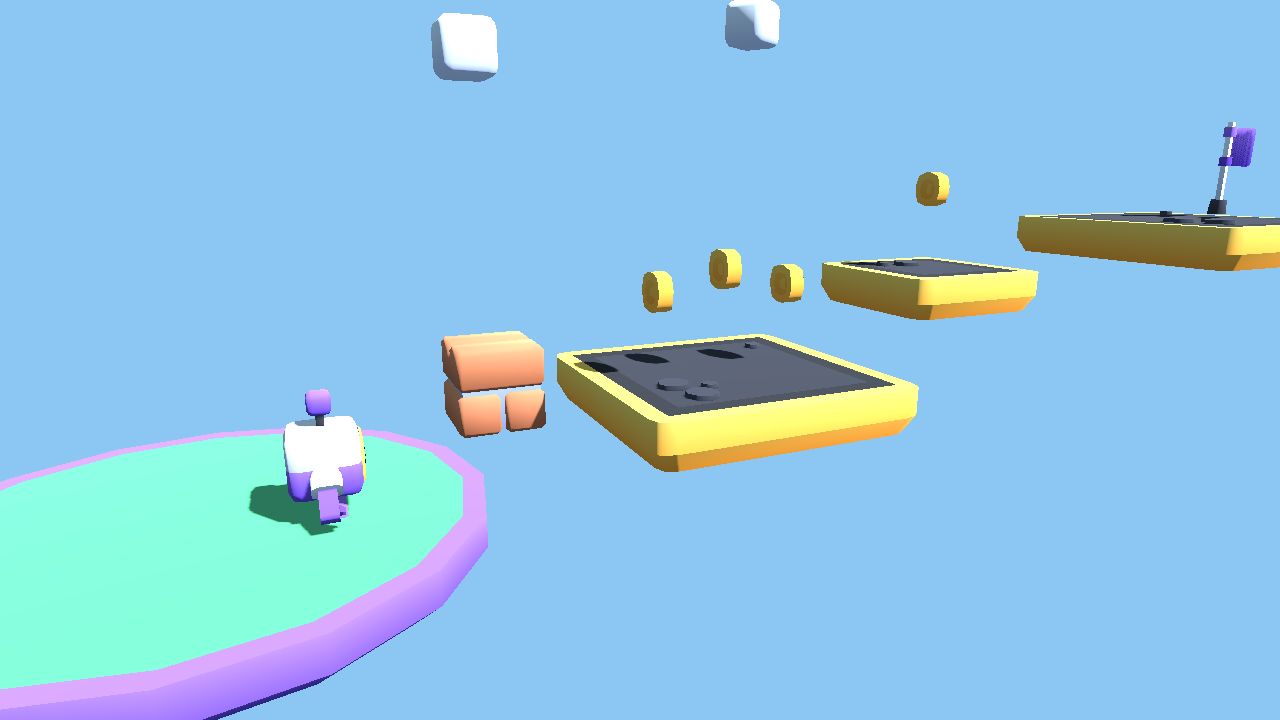
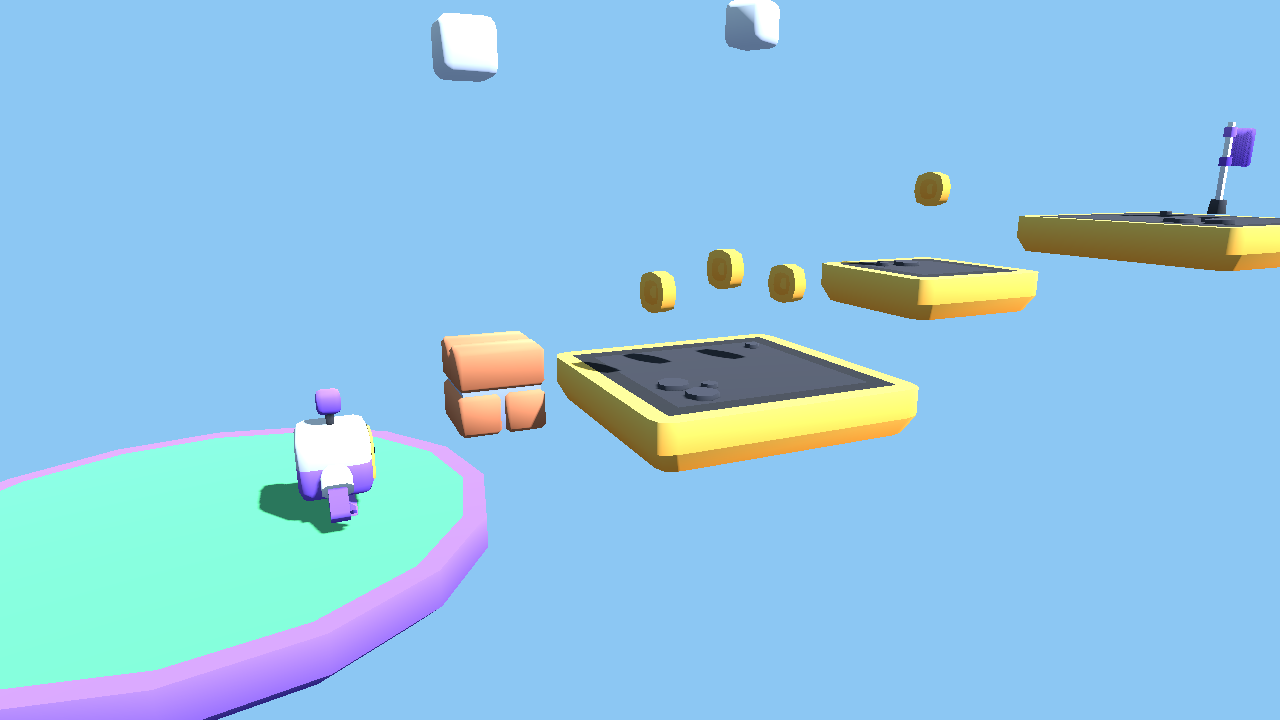
Fix review findings from #10 and reconcile art spend (#11)
* Fix three review findings: weapon aim, capture click, size gate

A weapon saved inside a controller scene had no aim on its first shot, the click that captures the mouse also fired, and web_size ignored textures stored beside a model. Each fix has a test that fails without it.

* Reconcile spend ledger with the real Cloud Billing charge

Billing showed $0.73 for the 21 images estimated at $0.42, so the ledger gets a correction row and the per-image price estimate rises to $0.035.

---------

diff --git a/godot/art_tests/gates/test_gate3d.py b/godot/art_tests/gates/test_gate3d.py
@@ -34,6 +34,11 @@ def verdict(report: dict, name: str) -> bool | None:
     return next(c["passed"] for c in report["checks"] if c["name"] == name)
 
 
+def verdict_value(report: dict, name: str):
+    """The measured value of one named gate in a report."""
+    return next(c["value"] for c in report["checks"] if c["name"] == name)
+
+
 def build_fixtures(blender: str, out: pathlib.Path) -> pathlib.Path:
     """Runs pipeline3d's stage test to make the models; returns the folder holding the .glb files."""
     run = subprocess.run([blender, "-b", "--factory-startup", "--python-exit-code", "1",
@@ -51,6 +56,34 @@ def build_open_plane(blender: str, path: pathlib.Path) -> None:
               f"bpy.ops.export_scene.gltf(filepath=r'{path}', export_format='GLB')\n")
     run = subprocess.run([blender, "-b", "--factory-startup", "--python-expr", script], capture_output=True, text=True, timeout=300)
     check(path.is_file(), "could not build the open-plane model:\n" + run.stdout[-400:])
+
+
+def build_external_texture_model(blender: str, folder: pathlib.Path) -> pathlib.Path:
+    """A cube whose 1024 px noise texture is a SEPARATE file next to the model (.gltf + .bin + .png).
+
+    Kits like Kenney's work this way: the model points at a shared texture beside it. The
+    noise makes the texture large and hard to compress, so it dominates the asset's size.
+    """
+    model = folder / "textured_cube.gltf"
+    script = ("import bpy, random\n"
+              "[bpy.data.objects.remove(o) for o in list(bpy.data.objects)]\n"
+              "bpy.ops.mesh.primitive_cube_add(size=1)\n"
+              "image = bpy.data.images.new('noise', 1024, 1024)\n"
+              "image.pixels.foreach_set([random.random() for _ in range(1024 * 1024 * 4)])\n"
+              f"image.filepath_raw = r'{folder / 'noise.png'}'\n"
+              "image.file_format = 'PNG'\n"
+              "image.save()\n"
+              "material = bpy.data.materials.new('noise')\n"
+              "material.use_nodes = True\n"
+              "node = material.node_tree.nodes.new('ShaderNodeTexImage')\n"
+              "node.image = image\n"
+              "material.node_tree.links.new(node.outputs['Color'], material.node_tree.nodes['Principled BSDF'].inputs['Base Color'])\n"
+              "bpy.context.object.data.materials.append(material)\n"
+              f"bpy.ops.export_scene.gltf(filepath=r'{model}', export_format='GLTF_SEPARATE')\n")
+    run = subprocess.run([blender, "-b", "--factory-startup", "--python-expr", script],
+                         capture_output=True, text=True, timeout=600)
+    check(model.is_file(), "could not build the external-texture model:\n" + run.stdout[-400:])
+    return model
 
 
 def test_facts(models: pathlib.Path) -> None:
@@ -106,6 +139,20 @@ def test_blender_gates(models: pathlib.Path, tmp: pathlib.Path) -> None:
     check(verdict(as_scenery, "non_manifold") is None, "open edges are only reported for environment pieces")
 
 
+def test_external_texture_counts_toward_web_size(tmp: pathlib.Path) -> None:
+    """A texture stored next to the model (not inside it) must count toward web_size."""
+    folder = tmp / "external"
+    folder.mkdir()
+    model = build_external_texture_model(os.environ["BLENDER"], folder)
+    roomy = gate3d.run_gate(model, kind="environment", blender="off")
+    size_kb = verdict_value(roomy, "web_size")
+    check(verdict(roomy, "godot_import") is True, f"the separate texture should import cleanly: {roomy['checks']}")
+    # The cube alone is a few KB; a 1024 px noise texture is hundreds. 100 KB sits between.
+    check(size_kb > 100, f"web_size {size_kb} KB left out the external texture")
+    tight = gate3d.run_gate(model, kind="environment", blender="off", budget_kb=100.0)
+    check(tight["failed"] == ["web_size"], f"a 100 KB budget should fail on the texture: {tight['failed']}")
+
+
 def test_godot_gates(models: pathlib.Path) -> None:
     """Godot layer: clean import, loop flags checked against what was asked, size budget enforced."""
     wolf = models / "wolf_merged.glb"
@@ -134,6 +181,7 @@ if __name__ == "__main__":
         test_blender_gates(models, tmp)
         if gate3d.find_tool(None, "GODOT"):
             test_godot_gates(models)
+            test_external_texture_counts_toward_web_size(tmp)
         else:
             print("  Godot gates skipped (set GODOT to run them)")
     print("PASS")

diff --git a/godot/art_tests/gates/gate3d.py b/godot/art_tests/gates/gate3d.py
@@ -195,12 +195,14 @@ def godot_gates(glb: pathlib.Path, godot: str | None, loops: list[str], budget_k
         # file the model points to, keeping its relative path; a missing one is the model's
         # problem and will show up below as an import error, which is exactly what we want.
         document = glb_facts.read_gltf_json(glb)
+        side_names = []                                # file names of the copied dependencies
         for item in document.get("images", []) + document.get("buffers", []):
             uri = item.get("uri", "")
             side_file = glb.parent / uri
             if uri and not uri.startswith("data:") and side_file.is_file():
                 (assets / uri).parent.mkdir(parents=True, exist_ok=True)
                 shutil.copy(side_file, assets / uri)
+                side_names.append(pathlib.Path(uri).name)
         audit_path = pathlib.Path(folder) / "audit.json"
         try:
             imported = subprocess.run([godot, "--headless", "--path", str(project), "--import"],
@@ -218,7 +220,12 @@ def godot_gates(glb: pathlib.Path, godot: str | None, loops: list[str], budget_k
         entry = next((a for a in audit["assets"] if a["path"].endswith(glb.name)), None)
         # Everything Godot generated for this model: the scene plus any textures it extracted.
         cache = project / ".godot" / "imported"
-        payload = sum(f.stat().st_size for f in cache.glob(f"{glb.stem}*") if f.suffix != ".md5") if cache.is_dir() else 0
+        # Godot names cache files "<source file name>-<hash>.<ext>", so an external texture
+        # ("colormap.png-1a2b.ctex") is found by ITS name, not the model's: count both, or a
+        # model with a huge external texture would pass the size gate.
+        patterns = [f"{glb.stem}*"] + [f"{name}-*" for name in side_names]
+        cached = {f for pattern in patterns for f in cache.glob(pattern)} if cache.is_dir() else set()
+        payload = sum(f.stat().st_size for f in cached if f.suffix != ".md5")
     if entry is None:
         return [check(name, False, "not audited", None, "the model did not appear in the audit") for name in names]
     problems = errors + entry["errors"]

diff --git a/godot/art_tests/cells/cell_lib.py b/godot/art_tests/cells/cell_lib.py
@@ -28,9 +28,11 @@ import gate2d  # noqa: E402
 import gate3d  # noqa: E402
 from runlog import RunLog  # noqa: E402,F401  (re-exported so build.py needs one import)
 
-# Estimated dollars per 1K image. Google bills by output tokens, so these are estimates;
-# the real charge is in Cloud Billing. Kept high on purpose so the $5 cap errs safe.
-PRICE_USD = {"nano-banana-2-lite": 0.02, "nano-banana": 0.04, "nano-banana-2": 0.07, "nano-banana-pro": 0.14}
+# Estimated dollars per 1K image. Google bills by output tokens, so these are estimates.
+# Calibrated on 2026-11-12: Cloud Billing charged $0.73 for the 21 lite images that had been
+# estimated at $0.02 each, i.e. about $0.035 per image. The other models were scaled by the
+# same factor (x1.75); they have not been checked against a bill yet.
+PRICE_USD = {"nano-banana-2-lite": 0.035, "nano-banana": 0.07, "nano-banana-2": 0.12, "nano-banana-pro": 0.25}
 # Seconds a person needs to look at one image and say yes or no. An estimate, used for
 # every approval so cells compare fairly; your own number may differ.
 GLANCE_SECONDS = 20.0

diff --git a/godot/docs/ART_WORKFLOWS.md b/godot/docs/ART_WORKFLOWS.md
@@ -7,7 +7,7 @@ from each cell's `report.json`. Re-run a cell with `python art_tests/cells/<cell
 ## The short answer
 
 **Never generate animation frame by frame.** Every cell below got a usable hero in under
-11 minutes, most in under 4, for 12 cents or less, by asking for the *whole* character in one
+11 minutes, most in under 4, for about 20 cents or less, by asking for the *whole* character in one
 request (a sheet, a parts sheet or a portrait) or by downloading one that is already rigged.
 Medusa's Price spent about two days on frame-by-frame sheets; the same six genres in both 2D
 and 3D took 52 minutes of clock time here, scene code included (written by the AI agent).
@@ -30,7 +30,7 @@ one, put the AI somewhere a judge can see it (generated textures, portraits, dia
 | Measured | Not measured |
 |---|---|
 | Machine time per step (generation, cleanup, Blender, Godot import, gates) | **Your** time. "Human" figures are estimates: 20 s per look, plus a stated guess per manual step |
-| Paid cost per image (estimated at $0.02; real charge is in Cloud Billing) | Time to write each demo scene by hand (the agent wrote them) |
+| Paid cost per image: estimated at $0.02 per run; Cloud Billing later showed $0.73 for all 21 images (about $0.035 each), so per-cell costs below are about 1.75x low | Time to write each demo scene by hand (the agent wrote them) |
 | Re-rolls and why each happened | A full jam's worth of assets: each cell is ONE hero and ONE environment piece |
 | Gate results on the final files | Tripo, Meshy, SpriteCook, Mixamo, AccuRIG: no keys or manual steps were used |
 | | Web build size and frame rate with the cell art included |
@@ -44,7 +44,7 @@ one, put the AI somewhere a judge can see it (generated textures, portraits, dia
 | Rank | Pipeline | Total | Cost | Looks | Re-rolls | Verdict |
 |---|---|---|---|---|---|---|
 | 1 | 2D: one 4-pose billboard sheet + one wall texture | 1:52 | $0.06 | 2 | 1 | Use. Re-roll was an *edit* of take 1 (kept poses, brightened colours) |
-| 2 | 3D: Kenney kit level + pipeline3d boar + fog | 6:23 | $0.00 | 2 | 0 | Works, but the kit's pastel palette fights a horror mood |
+| 2 | 3D: Kenney kit level + pipeline3d boar + fog | 6:24 | $0.00 | 2 | 0 | Works, but the kit's pastel palette fights a horror mood |
 | - | 3D: AI mesh (Tripo/Meshy) + auto-rig | not run | | | | No keys |
 
 ### Action RPG
@@ -61,7 +61,7 @@ one, put the AI somewhere a judge can see it (generated textures, portraits, dia
 | Rank | Pipeline | Total | Cost | Looks | Re-rolls | Verdict |
 |---|---|---|---|---|---|---|
 | 1 | 2D: portrait, token cropped from it by code, one floor image | 1:34 | $0.08 | 2 | 1 | Use. Re-roll removed a franchise-like crest |
-| 2 | 3D: static kit models as minis + floor texture | 5:43 | $0.00 | 1 | 0 | Use when you want a 3D board |
+| 2 | 3D: static kit models as minis + floor texture | 5:44 | $0.00 | 1 | 0 | Use when you want a 3D board |
 
 ### Fighter
 
@@ -84,7 +84,7 @@ one, put the AI somewhere a judge can see it (generated textures, portraits, dia
 | Rank | Pipeline | Total | Cost | Looks | Re-rolls | Verdict |
 |---|---|---|---|---|---|---|
 | 1 | 2D: four flat parts from one sheet, run cycle from a sine wave | 3:01 | $0.04 | 2 | 0 | Use. No frames drawn, first take worked |
-| 2 | 3D: Kenney platformer kit (hero with clips + platforms) | 5:57 | $0.00 | 1 | 0 | Use. Zero risk, but it looks like every other Kenney jam game |
+| 2 | 3D: Kenney platformer kit (hero with clips + platforms) | 5:59 | $0.00 | 1 | 0 | Use. Zero risk, but it looks like every other Kenney jam game |
 
 ## The rules these runs produced
 

diff --git a/godot/art_tests/SCOREBOARD.md b/godot/art_tests/SCOREBOARD.md
@@ -19,15 +19,15 @@ Click a cell name to see its screenshot.
 | [fighter_2d](cells/fighter_2d/screenshot.png) | generated | 2 | $0.04 | 0:21 | 5:40 | **6:01** | 2 | 0 | 27 pass, 15 n/a |
 | [metroidvania_2d](cells/metroidvania_2d/screenshot.png) | generated | 3 | $0.06 | 0:26 | 2:40 | **3:06** | 2 | 0 | 13 pass, 2 n/a |
 | [platformer_2d](cells/platformer_2d/screenshot.png) | generated | 2 | $0.04 | 0:21 | 2:40 | **3:01** | 2 | 0 | 19 pass, 11 n/a |
-| [fps_3d](cells/fps_3d/screenshot.png) | downloaded + built | - | $0.00 | 0:43 | 5:40 | **6:23** | 2 | 0 | 20 pass, 19 n/a |
+| [fps_3d](cells/fps_3d/screenshot.png) | downloaded + built | - | $0.00 | 0:44 | 5:40 | **6:24** | 2 | 0 | 20 pass, 19 n/a |
 | [action_rpg_3d](cells/action_rpg_3d/screenshot.png) | downloaded | - | $0.00 | 0:34 | 10:20 | **10:54** | 1 | 0 | 21 pass, 18 n/a |
-| [tactics_3d](cells/tactics_3d/screenshot.png) | downloaded | - | $0.00 | 0:23 | 5:20 | **5:43** | 1 | 0 | 14 pass, 18 n/a |
+| [tactics_3d](cells/tactics_3d/screenshot.png) | downloaded | - | $0.00 | 0:24 | 5:20 | **5:44** | 1 | 0 | 14 pass, 18 n/a |
 | [fighter_3d](cells/fighter_3d/screenshot.png) | downloaded | - | $0.00 | 0:17 | 0:20 | **0:37** | 1 | 0 | 16 pass, 3 n/a |
 | [metroidvania_3d](cells/metroidvania_3d/screenshot.png) | downloaded | - | $0.00 | 0:15 | 7:20 | **7:35** | 1 | 0 | 14 pass, 5 n/a |
-| [platformer_3d](cells/platformer_3d/screenshot.png) | downloaded | - | $0.00 | 0:37 | 5:20 | **5:57** | 1 | 0 | 19 pass, 33 n/a |
+| [platformer_3d](cells/platformer_3d/screenshot.png) | downloaded | - | $0.00 | 0:39 | 5:20 | **5:59** | 1 | 0 | 19 pass, 33 n/a |
 
-**All 12 cells:** machine 6:14, human (est.) 48:20, 4 re-rolls, $0.40 of generation.
-**Spend ledger** (`logs/spend_log.csv`): $0.42 for 21 images, against a $5.00 cap.
+**All 12 cells:** machine 6:18, human (est.) 48:20, 4 re-rolls, $0.40 of generation.
+**Spend ledger** (`logs/spend_log.csv`): $0.73 for 21 images, against a $5.00 cap.
 
 ## What each cell used
 
